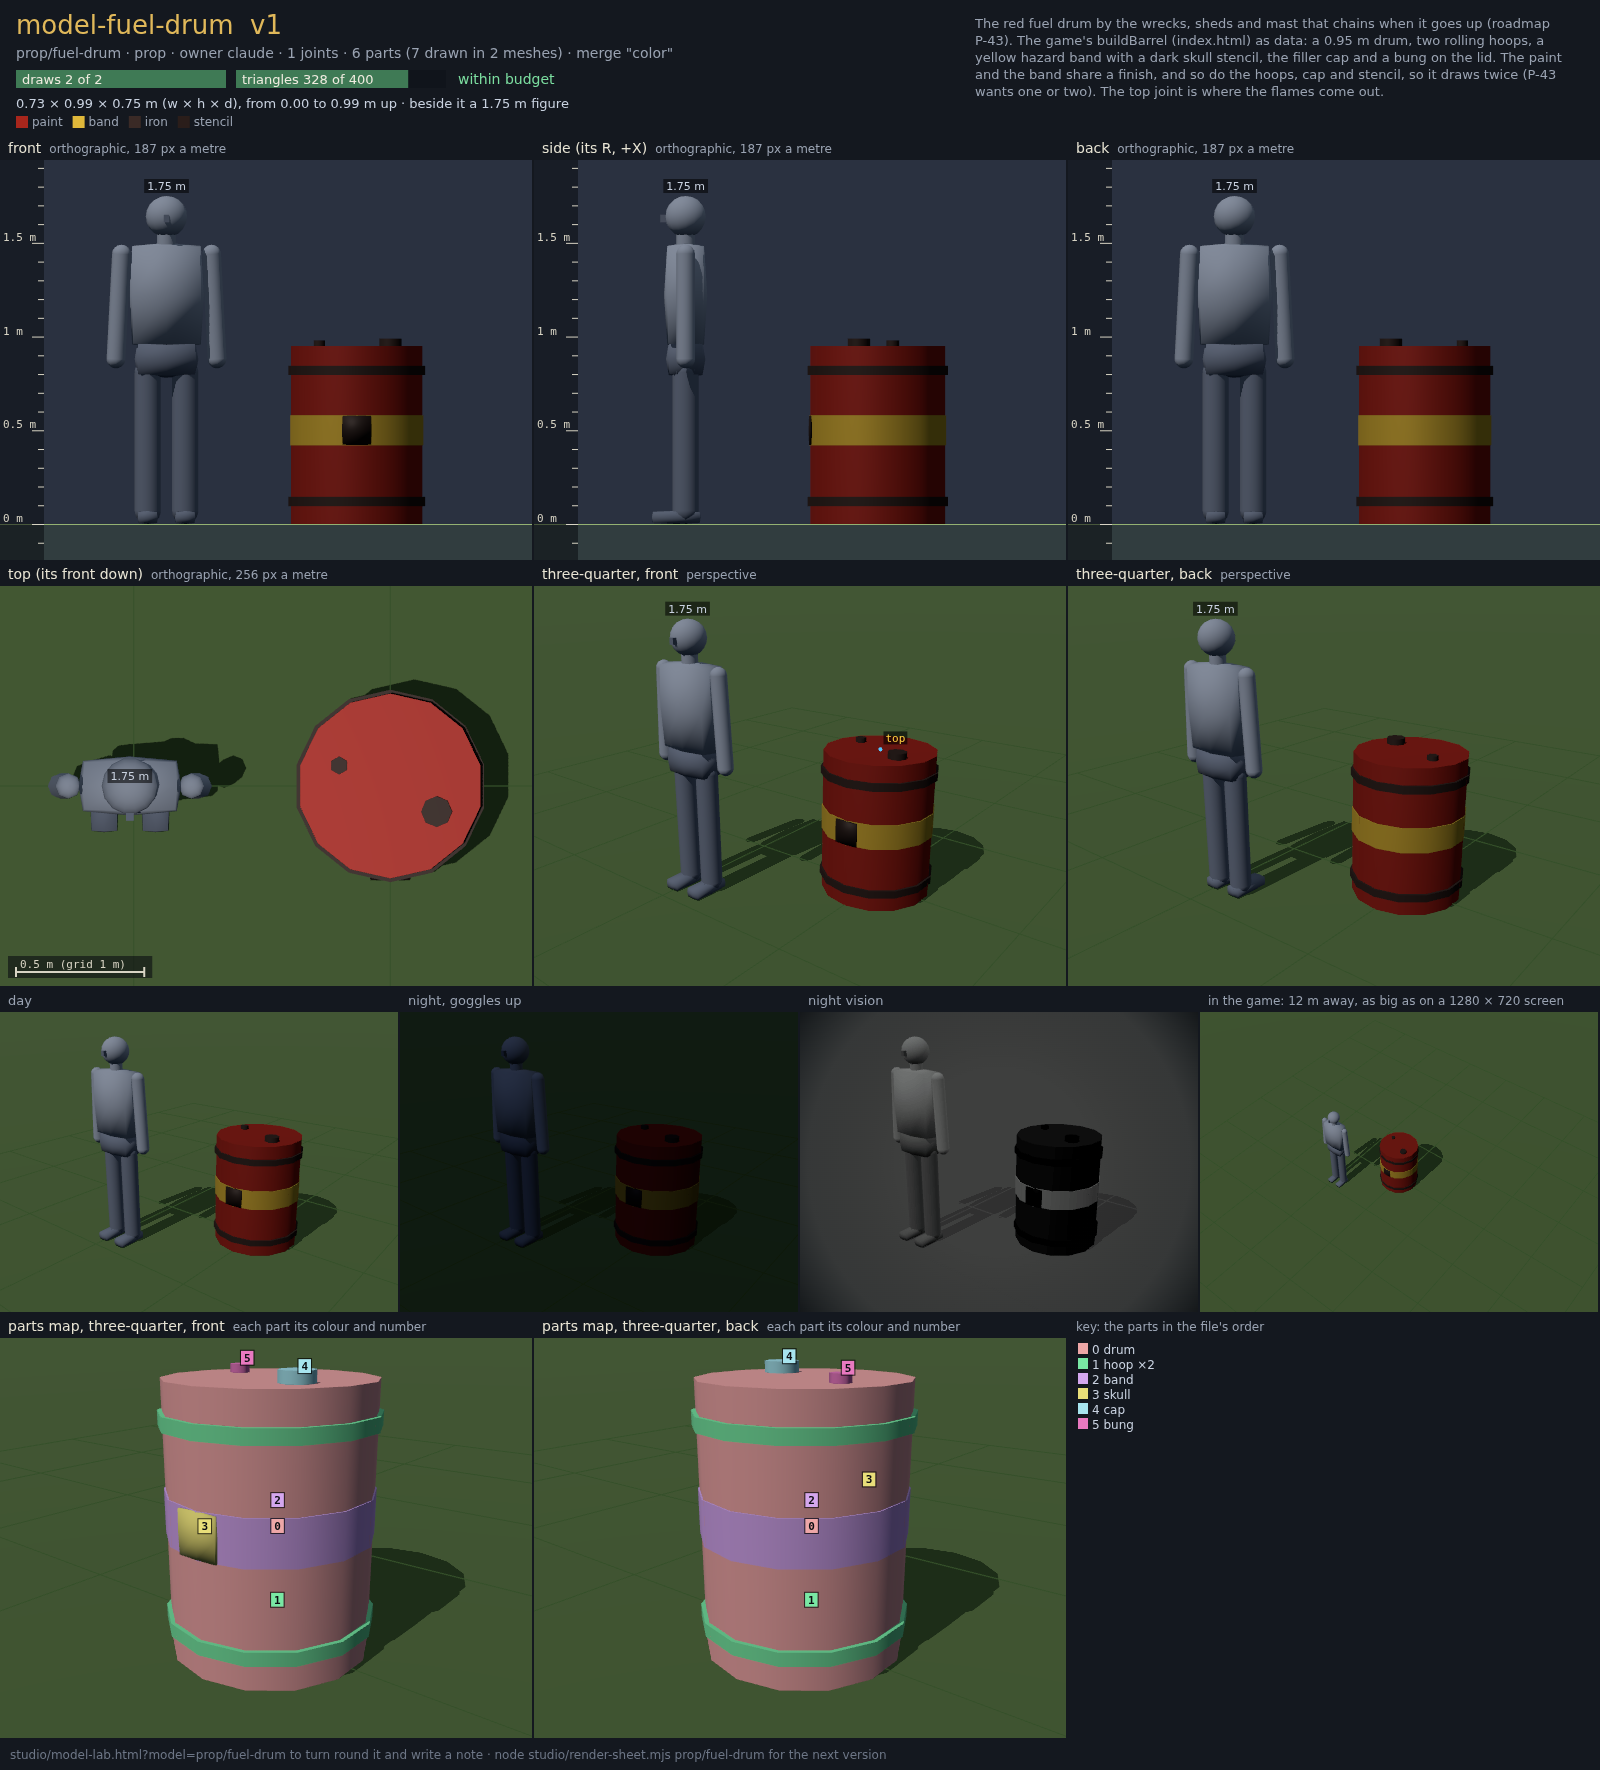
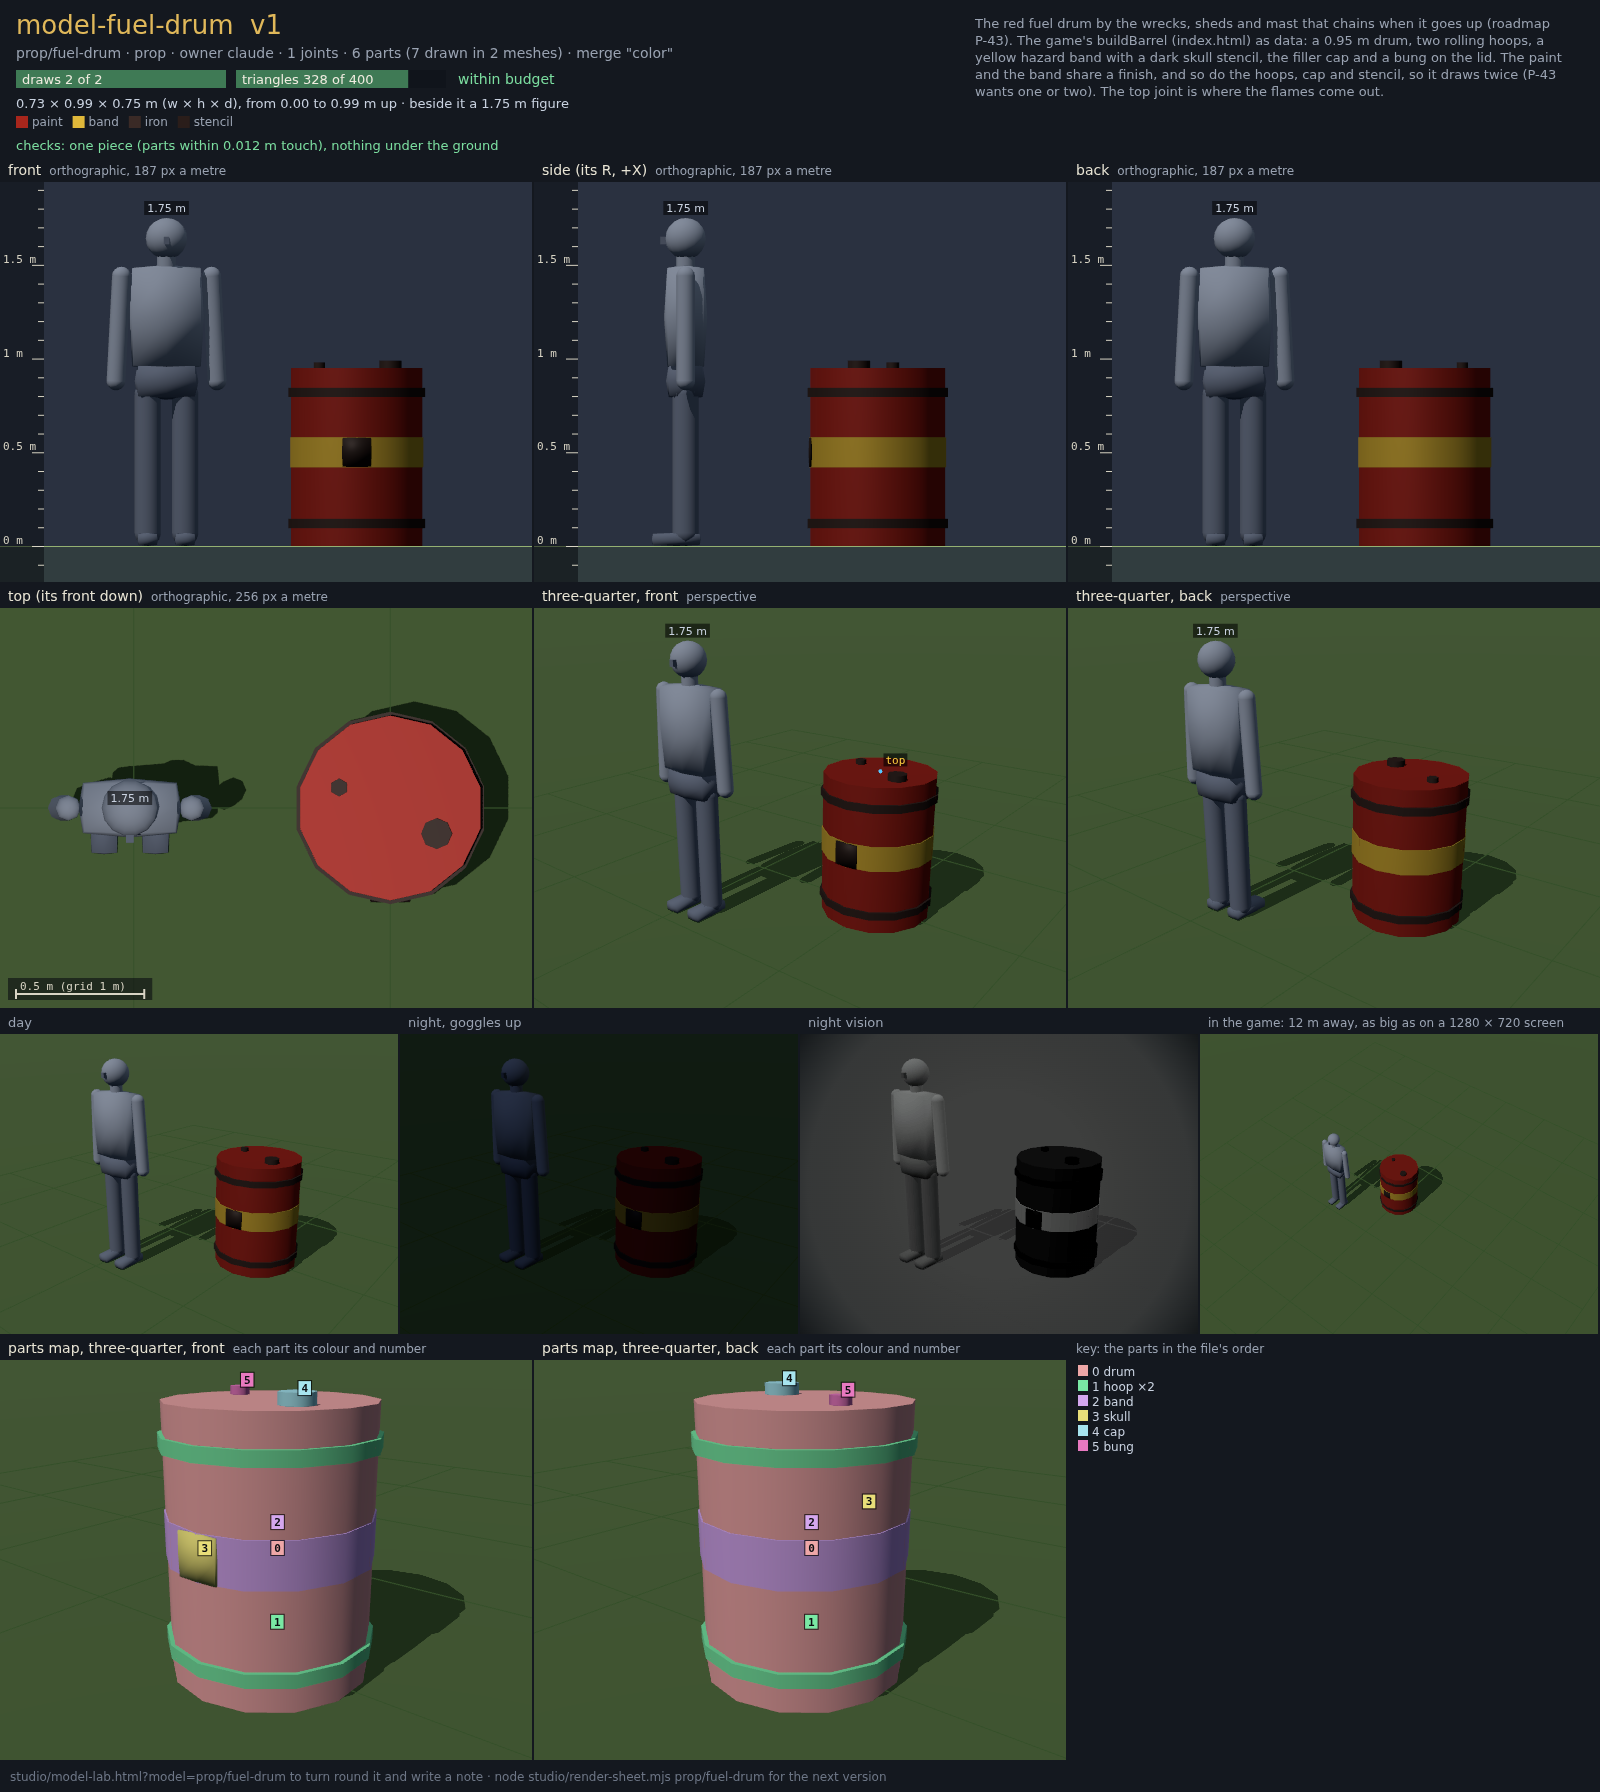
Model checks an agent can't do by eye, and the spider's spine sits on its gut (spider v2)
modelChecks (studio/model-look.js) says, in numbers, what a model looks like it gets wrong: parts that
don't touch the rest (joined by their boxes, within 1.2% of the model's size, so the gaps a blocky
figure is built with pass) and anything under the ground (a model with a waterline is let off). The
sheet's header, stats.json, the lab's panel, render-sheet and model-sheet --check all say them.

What it found: one of the spider's seven spine bones floated 2.5 cm above its gut. The gut is 5 cm
taller now and sags a little under it (version 2, review/model-spider/v2 beside v1). The zombie
model, which follows the game's makeZombieMesh, has a 5 cm gap at the waist between its hips and its
torso and its feet 0.26 m under the ground (P-73): both on its sheet, left as the game has them.
The other v1 sheets are drawn again with the checks line.

Claude-Session: https://claude.ai/code/session_01MT7CVGWiPRn15SvkviGmQK

diff --git a/studio/model-lab.html b/studio/model-lab.html
@@ -66,6 +66,7 @@
   <div id="problems" class="hint bad" style="display:none"></div>
   <h2>Cost against its budget</h2>
   <div id="cost"></div>
+  <div id="checks" class="hint"></div>
   <h2>Light</h2>
   <div class="grid3" id="lights"></div>
   <h2>Show</h2>
@@ -133,7 +134,8 @@ import { parseNotes, reviewState } from '../crew/notes.mjs';
 import {
   SHEET_VIEWS, VIEW, PLAY_CAMERA, viewBasis, orthoScale, fitOrtho, fitPerspective, figureSpot, FIGURE_HALF_WIDTH,
   buildFigure, FIGURE_HEIGHT, LIGHTS, LIGHT_MODES, applyLight, drawNvgEdges, modelBounds, sizeText, rulerTicks,
-  placeLabels, partRows, partOverlay, partAt, partColor, partHex, modelDiff, modelNote, noteBlock, readLabQuery, labQuery
+  placeLabels, partRows, partOverlay, partAt, partColor, partHex, modelDiff, modelNote, noteBlock, readLabQuery, labQuery,
+  modelChecks, checkSentences
 } from './model-look.js';
 
 const q = new URLSearchParams(location.search);
@@ -764,7 +766,7 @@ async function drawSheet() {
   load(ref);
   view.figure = 'figure'; view.joints = false; view.names = false;
   setWire(false);
-  const W = 1600, HEAD = 136, TW = 532, TH = 400, G = 2, LW = 398, LH = 300, CAP = 24, FOOT = 30;
+  const W = 1600, HEAD = 158, TW = 532, TH = 400, G = 2, LW = 398, LH = 300, CAP = 24, FOOT = 30;
   const clipRef = S.clip || (cur.inst && (cur.json.clips || [])[0]) || null;
   const clip = clipRef && cur.inst ? loadClip(await (await fetch(`./clips/${clipRef}.json`)).json()) : null;
   const FRAMES = 6, fw = Math.floor(W / FRAMES), fh = 220;
@@ -919,6 +921,12 @@ async function drawSheet() {
   bar(236, 70, 'triangles', c.triangles, b.triangles);
   label(over ? 'OVER BUDGET' : 'within budget', 458, 84, over ? '#ff7a6a' : '#7cdea0', 14);
   label(`${sizeText(cur.bounds)}, from ${cur.bounds.min[1].toFixed(2)} to ${cur.bounds.max[1].toFixed(2)} m up · beside it a 1.75 m figure`, 16, 108, '#c9d2e0', 13);
+  // What the numbers say looks wrong (model-look.js modelChecks): pieces that don't touch, parts under the ground.
+  const checks = modelChecks(j), said = checkSentences(checks);
+  let cline = said.length ? 'checks: ' + said.join(' · ') : `checks: one piece (parts within ${checks.touch} m touch), nothing under the ground`;
+  ctx.font = '13px system-ui, sans-serif';
+  while (cline.length > 20 && ctx.measureText(cline).width > W - 32) cline = cline.slice(0, -2) + '…';
+  label(cline, 16, 150, said.length ? '#ffb070' : '#7cdea0', 13);
   let sx = 16;
   ctx.font = '12px system-ui, sans-serif';
   for (const [n, m] of Object.entries(j.materials)) {
@@ -941,7 +949,7 @@ async function drawSheet() {
     model: cur.ref, version: j.version || 1, draws: c.draws, triangles: c.triangles, budget: b, over,
     bounds: cur.bounds, joints: Object.keys(cur.built.joints), parts: j.parts.length, drawn: cur.built.parts.length,
     meshes: cur.built.meshes.length, merge: j.merge ?? false, views: SHEET_VIEWS.map((v) => v.key), scale: { elevationsPxPerMetre: +(1 / mppElev).toFixed(1), topPxPerMetre: +(1 / mppTop).toFixed(1) },
-    ...(clipRef ? { clip: clipRef } : {}), namesHidden: missing
+    ...(clipRef ? { clip: clipRef } : {}), namesHidden: missing, checks: { ...checks, said }
   };
   window.__ready = true;
 }
@@ -1090,6 +1098,9 @@ async function live() {
     const bar = (name, v, max) => `<div class="bar${v > max ? ' over' : ''}"><i style="width:${Math.min(100, (100 * v) / max).toFixed(1)}%"></i><span>${name} ${v} of ${max}${v > max ? ' — over' : ''}</span></div>`;
     $('cost').innerHTML = bar('draws', c.draws, b.draws) + bar('triangles', c.triangles, b.triangles) +
       `<div class="hint">${sizeText(cur.bounds)} · ${Object.keys(cur.built.joints).length} joints · ${cur.built.meshes.length} meshes · merge ${esc(JSON.stringify(j.merge ?? false))}</div>`;
+    const checks = modelChecks(j), said = checkSentences(checks);
+    cur.checks = { ...checks, said };
+    $('checks').innerHTML = said.length ? said.map((t) => `<div style="color:#ffb070">${esc(t)}</div>`).join('') : `<span class="good">One piece, nothing under the ground.</span>`;
     $('partCount').textContent = `${j.parts.length} in the file, ${cur.built.parts.length} drawn`;
     $('parts').replaceChildren(...cur.rows.map((r) => {
       const d = document.createElement('div'); d.className = 'part'; d.dataset.i = r.i;
@@ -1284,7 +1295,8 @@ async function live() {
       filter: renderer.domElement.style.filter, straight: orbit.straight, yaw: orbit.yaw, canSave, review: { ...review, notes: review.notes.length, then: !!review.then },
       body: body ? { preset: body.presetName, state: body.state } : null, context: describe(), look: lookUrl(), figureAt: shownFigure() ? shownFigure().position.toArray() : null,
       ghost: ghost ? ghost.version : null, problems: [...problems], fileVersion: cur.json.version || 1,
-      colored: colorMeshes.filter((m) => m.visible).length, modelMeshesShown: cur.built.meshes.filter((m) => m.visible).length
+      colored: colorMeshes.filter((m) => m.visible).length, modelMeshesShown: cur.built.meshes.filter((m) => m.visible).length,
+      checks: cur.checks ? cur.checks.said : null
     }),
     setModel: async (r) => { ref = r; sel.value = r; await show(); return cur.ref; },
     setLight: (m) => { setLight(m); syncButtons(); },

diff --git a/studio/model-look.js b/studio/model-look.js
@@ -342,6 +342,68 @@ export function partAt(json, joints, root, raycaster, hidden = new Set()) {
   return best;
 }
 
+// --- Checks an agent can't do by eye --------------------------------------------------------------------
+// What a model looks like it gets wrong, in numbers, at rest: whether its parts hang together as one
+// piece (a part that touches nothing floats; a gap between two halves shows in a close view), and what
+// is under the ground (a model that floats, one with a "waterline" joint, is let off). Parts are
+// compared by their boxes in the model's frame, so a turned part counts as a little bigger than it is:
+// the check errs toward "touching". `touch` is how close counts as touching, in metres: by default 1.2%
+// of the model's biggest size (2 cm on a man, 7 cm on the boat), and never under 1 cm, so the small
+// gaps a blocky figure is built with (an arm held off the body) pass and a gap that shows doesn't.
+const gapBetween = (a, b) => Math.hypot(
+  Math.max(0, a.min.x - b.max.x, b.min.x - a.max.x),
+  Math.max(0, a.min.y - b.max.y, b.min.y - a.max.y),
+  Math.max(0, a.min.z - b.max.z, b.min.z - a.max.z));
+export function modelChecks(json, opts = {}) {
+  const { single } = builds(json);
+  single.group.updateMatrixWorld(true);
+  const parts = single.parts.map((p) => ({ name: p.name || `part ${p.src}`, src: p.src, box: new THREE.Box3().setFromObject(p.mesh, true) }));
+  const all = new THREE.Box3();
+  for (const p of parts) all.union(p.box);
+  const s = all.getSize(new THREE.Vector3());
+  const touch = opts.touch ?? +Math.max(0.01, 0.012 * Math.max(s.x, s.y, s.z)).toFixed(3);
+  // Pieces: parts joined by touching, as a union-find over every pair.
+  const up = parts.map((_, i) => i);
+  const find = (i) => (up[i] === i ? i : (up[i] = find(up[i])));
+  for (let i = 0; i < parts.length; i++) for (let k = i + 1; k < parts.length; k++) if (gapBetween(parts[i].box, parts[k].box) <= touch) up[find(i)] = find(k);
+  const groups = new Map();
+  parts.forEach((p, i) => { const r = find(i); (groups.get(r) || groups.set(r, []).get(r)).push(p); });
+  const size = (g) => g.reduce((s, p) => { const v = p.box.getSize(_v); return s + v.x * v.y * v.z; }, 0);
+  const pieces = [...groups.values()].sort((a, b) => size(b) - size(a));
+  // Each piece but the biggest: how far it is from the rest, and between which two parts.
+  const gaps = pieces.slice(1).map((g) => {
+    let best = null;
+    for (const p of g) for (const q of parts) {
+      if (g.includes(q)) continue;
+      const d = gapBetween(p.box, q.box);
+      if (!best || d < best.metres) best = { metres: +d.toFixed(3), between: [p.name, q.name] };
+    }
+    // Names once each; a part only some of whose copies float says how many ("1 of the 7 spine").
+    const names = [...new Set(g.map((p) => p.name))].map((n) => {
+      const here = g.filter((p) => p.name === n).length, of = parts.filter((p) => p.name === n).length;
+      return here < of ? `${here} of the ${of} ${n}` : n;
+    });
+    return { parts: names, items: g.length, ...best };
+  });
+  const floats = json.joints && json.joints.waterline;
+  const under = floats ? [] : parts.filter((p) => p.box.min.y < -touch);
+  const depth = under.length ? +(-Math.min(...under.map((p) => p.box.min.y))).toFixed(3) : 0;
+  return {
+    pieces: pieces.length, gaps, touch,
+    underGround: under.length ? { metres: depth, parts: [...new Set(under.map((p) => p.name))] } : null
+  };
+}
+// The checks as short sentences, for the sheet's header and the lab's panel.
+export function checkSentences(c) {
+  const out = [];
+  for (const g of c.gaps) {
+    const who = g.parts.length > 3 ? g.parts.slice(0, 3).join('; ') + ` and ${g.parts.length - 3} more` : g.parts.join('; ');
+    out.push(`${who} ${g.items > 1 ? 'float' : 'floats'} ${g.metres} m off the rest (${g.between[0]} to ${g.between[1]})`);
+  }
+  if (c.underGround) out.push(`${c.underGround.metres} m under the ground: ${c.underGround.parts.slice(0, 4).join(', ')}${c.underGround.parts.length > 4 ? ' and more' : ''}`);
+  return out;
+}
+
 // --- What changed between two versions of a file -----------------------------------------------------------
 const short = (v) => {
   const s = JSON.stringify(v);

diff --git a/review/model-spider/index.html b/review/model-spider/index.html
@@ -1,4 +1,4 @@
-<!doctype html><meta charset="utf-8"><title>model-spider v1</title>
+<!doctype html><meta charset="utf-8"><title>model-spider v2</title>
 <!-- written by studio/render-sheet.mjs, again with each version -->
 <style>body{margin:20px;background:#14181f;color:#e6e6e0;font-family:Georgia,serif} h1{font-size:56px;margin:0}
 .sub{color:#9aa3b2;font-size:14px;font-weight:normal} .bad{color:#ff7a6a} a{color:#e0b85a}
@@ -7,13 +7,16 @@
 .note{border-top:1px solid #333b4a;padding:6px 0} .note h3{font-weight:normal;font-size:17px;margin:6px 0}
 img.lab{max-width:640px;width:100%;display:block;margin:6px 0;border:1px solid #333b4a}
 blockquote{margin:6px 0;padding:4px 12px;border-left:3px solid #7cdea0} code{font-size:13px}</style>
-<h1>v1</h1>
+<h1>v2</h1>
 <p class="sub">model-spider · creature/spider · owner claude · studio/models/creature/spider.json</p>
 <p>The model from six sides, in day, night and night vision, and as big as it is in the game, beside a 1.75 m figure. Green is within its budget, red is over. Click a sheet for it full size.
 To turn round it yourself, double-click <b>Open Model Lab.bat</b> in the game folder, then <a href="http://127.0.0.1:8973/studio/model-lab.html?model=creature/spider">open it in the lab</a>; write your note there and it comes here with a picture. Or write it in <code>notes.md</code> in this folder.</p>
-<div class="pair"><section><h2>v1 <span class="sub">latest</span></h2>
+<div class="pair"><section><h2>v2 <span class="sub">latest</span></h2>
+<p class="sub">30 of 32 draws · 2636 of 3200 triangles · 1.81 × 0.85 × 1.75 m (w × h × d)</p>
+<a href="v2/sheet.png"><img src="v2/sheet.png" alt="model-spider v2"></a></section>
+<section><h2>v1 <span class="sub">the one before</span></h2>
 <p class="sub">30 of 32 draws · 2636 of 3200 triangles · 1.81 × 0.85 × 1.75 m (w × h × d)</p>
 <a href="v1/sheet.png"><img src="v1/sheet.png" alt="model-spider v1"></a></section></div>
-
-<h2>Notes <span class="sub">(as they were when v1 was drawn; notes.md has the newest)</span></h2>
+<h2>What changed from v1 to v2</h2><ul><li>version: 1 → 2</li><li>part gut: size [0.4,0.27,0.4] → [0.4,0.32,0.4]; note nothing → &quot;sags a little under the spine, which sits on it&quot;</li></ul>
+<h2>Notes <span class="sub">(as they were when v2 was drawn; notes.md has the newest)</span></h2>
 <p class="sub">No notes yet.</p>
